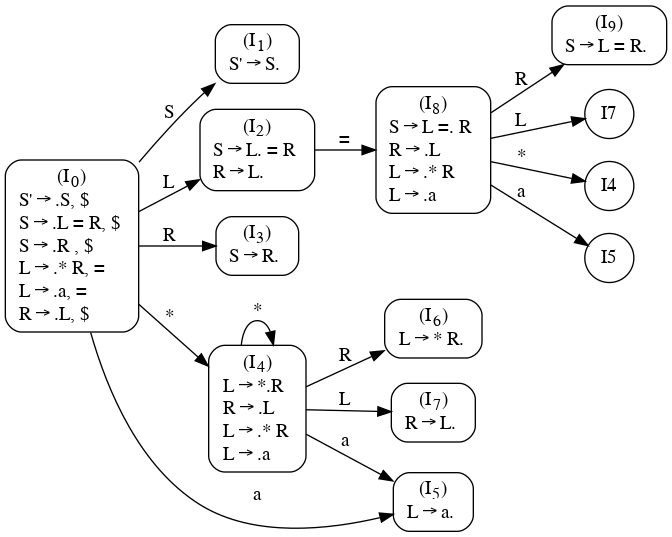
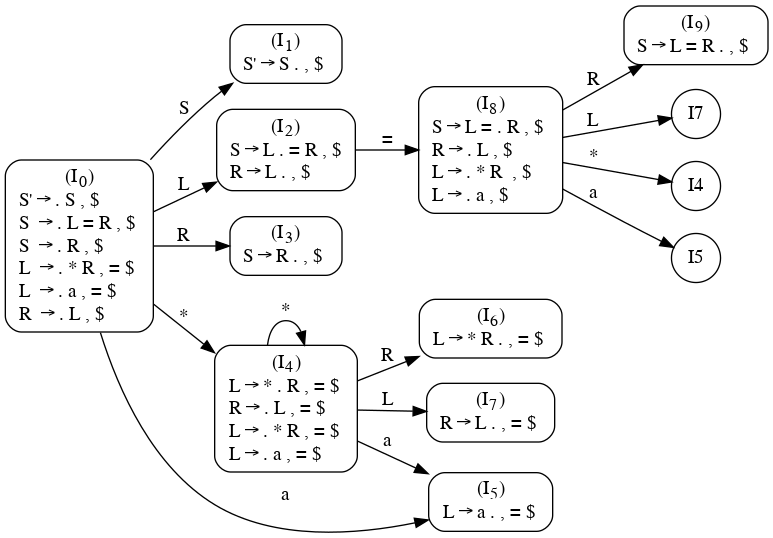
Change and Automatic update: Tue 29 Oct 2024 04:18:35 PM +0330

diff --git a/cm/lr/index.html b/cm/lr/index.html
@@ -4,10 +4,10 @@
         messageStyle: "none",
         TeX : { extensions : ['color.js'] }
       });
-    </script></head><body class="impress-not-supported"><div id="impress" data-width="1024" data-height="800" data-transition-duration="1000"><div class="step step-level-1" step="0" style="width: 1024px;" data-rotate-x="0" data-rotate-y="0" data-rotate-z="0" data-scale="1" data-x="0" data-y="0" data-z="0"><h1 id="lr">LR</h1><h2 id="syntax-analysis-lr">Syntax Analysis(LR)</h2><p>Ahmad Yoosofan</p><p>Compiler course</p><p>University of Kashan</p><p><a href="https://yoosofan.github.io/course/compiler.html">https://yoosofan.github.io/course/compiler.html</a></p></div><div class="step step-level-1" step="1" style="width: 1024px;" data-rotate-x="0" data-rotate-y="0" data-rotate-z="0" data-scale="1" data-x="1600" data-y="0" data-z="0"><h1 id="simple-add-i">Simple Add(I)</h1><ol><li class="substep">E &#8594; E + a</li><li class="substep">E &#8594; a</li></ol><img src="img/graph_235.png" class="substep"></div><div class="step step-level-1 t2c" step="2" style="width: 1024px;" data-rotate-x="0" data-rotate-y="0" data-rotate-z="0" data-scale="1" data-x="3200" data-y="0" data-z="0"><h1 id="simple-add-ii">Simple Add(II)</h1><ol><li>E &#8594; E + a</li><li>E &#8594; a</li></ol><img src="img/graph_236.png" class="substep"></div><div class="step step-level-1 t2c" step="3" style="width: 1024px;" data-rotate-x="0" data-rotate-y="0" data-rotate-z="0" data-scale="1" data-x="4800" data-y="0" data-z="0"><h1 id="simple-add-iii">Simple Add(III)</h1><ol><li>E &#8594; E + a</li><li>E &#8594; a</li></ol><img src="img/graph_237.png" class="substep"></div><div class="step step-level-1 t2c" step="4" style="width: 1024px;" data-rotate-x="0" data-rotate-y="0" data-rotate-z="0" data-scale="1" data-x="6400" data-y="0" data-z="0"><h1 id="simple-add-iv">Simple Add(IV)</h1><ol><li>E &#8594; E + a</li><li>E &#8594; a</li></ol><img src="img/graph_238.png"></div><div class="step step-level-1 t2c" step="5" style="width: 1024px;" data-rotate-x="0" data-rotate-y="0" data-rotate-z="0" data-scale="1" data-x="8000" data-y="0" data-z="0"><h1 id="simple-add-v">Simple Add(V)</h1><ol><li>E &#8594; E + a</li><li>E &#8594; a</li></ol><img src="img/graph_239.png"></div><div class="step step-level-1 t2c" step="6" style="width: 1024px;" data-rotate-x="0" data-rotate-y="0" data-rotate-z="0" data-scale="1" data-x="9600" data-y="0" data-z="0"><h1 id="simple-add-vi">Simple Add(VI)</h1><ol><li>E &#8594; E + a</li><li>E &#8594; a</li></ol><img src="img/graph_240.png"><ul><li class="substep">input: 3+5+1</li><li class="substep">a(3)+a(5)+a(1)</li><li class="substep">a+a+a</li></ul></div><div class="step step-level-1 t2c" step="7" style="width: 1024px;" data-rotate-x="0" data-rotate-y="0" data-rotate-z="0" data-scale="1" data-x="11200" data-y="0" data-z="0"><h1 id="simple-add-vii">Simple Add(VII)</h1><ol><li>S &#8594; E</li><li>E &#8594; E + a</li><li>E &#8594; a</li></ol><img src="img/graph_241.png"></div><div class="step step-level-1 t2c" step="8" style="width: 1024px;" data-rotate-x="0" data-rotate-y="0" data-rotate-z="0" data-scale="1" data-x="12800" data-y="0" data-z="0"><h1 id="simple-add-vii-1">Simple Add(VII)</h1><ol><li>S &#8594; E</li><li>E &#8594; E + a</li><li>E &#8594; a</li></ol><img src="img/graph_242.png"></div><div class="step step-level-1 t2c" step="9" style="width: 1024px;" data-rotate-x="0" data-rotate-y="0" data-rotate-z="0" data-scale="1" data-x="14400" data-y="0" data-z="0"><h1 id="simple-calculator-i">Simple Calculator(I)</h1><ol><li>E &#8594; E + T</li><li>E &#8594; E - T</li><li>E &#8594; T</li><li>T &#8594; T * F</li><li>T &#8594; T / F</li><li>T &#8594; F</li><li>F &#8594; (E)</li><li>F &#8594; a</li></ol><img src="img/graph_243.png" class="substep"></div><div class="step step-level-1 t2c" step="10" style="width: 1024px;" data-rotate-x="0" data-rotate-y="0" data-rotate-z="0" data-scale="1" data-x="16000" data-y="0" data-z="0"><h1 id="simple-calculator-ii">Simple Calculator(II)</h1><ol><li>E &#8594; E + T</li><li>E &#8594; E - T</li><li>E &#8594; T</li><li>T &#8594; T * F</li><li>T &#8594; T / F</li><li>T &#8594; F</li><li>F &#8594; (E)</li><li>F &#8594; a</li></ol><img src="img/graph_244.png" class="substep"></div><div class="step step-level-1 t2c" step="11" style="width: 1024px;" data-rotate-x="0" data-rotate-y="0" data-rotate-z="0" data-scale="1" data-x="17600" data-y="0" data-z="0"><h1 id="simple-calculator-xx">Simple Calculator(XX)</h1><ol><li>E &#8594; E + T</li><li>E &#8594; E - T</li><li>E &#8594; T</li><li>T &#8594; T * F</li><li>T &#8594; T / F</li><li>T &#8594; F</li><li>F &#8594; (E)</li><li>F &#8594; a</li></ol><img src="img/graph_245.png" class="substep"></div><div class="step step-level-1" step="12" style="width: 1024px;" data-rotate-x="0" data-rotate-y="0" data-rotate-z="0" data-scale="1" data-x="19200" data-y="0" data-z="0"><img src="img/slr_etf.png"></div><div class="step step-level-1 t2c" step="13" style="width: 1024px;" data-rotate-x="0" data-rotate-y="0" data-rotate-z="0" data-scale="1" data-x="20800" data-y="0" data-z="0"><h1 id="ambiguous-grammar">Ambiguous Grammar</h1><pre class="highlight code fortran"><span class="k">IF </span><span class="n">x</span><span class="w"> </span><span class="o">=</span><span class="w"> </span><span class="mi">2</span><span class="w"> </span><span class="k">THEN
+    </script></head><body class="impress-not-supported"><div id="impress" data-width="1024" data-height="800" data-transition-duration="1000"><div class="step step-level-1" step="0" style="width: 1024px;" data-rotate-x="0" data-rotate-y="0" data-rotate-z="0" data-scale="1" data-x="0" data-y="0" data-z="0"><h1 id="lr">LR</h1><h2 id="syntax-analysis-lr">Syntax Analysis(LR)</h2><p>Ahmad Yoosofan</p><p>Compiler course</p><p>University of Kashan</p><p><a href="https://yoosofan.github.io/course/compiler.html">https://yoosofan.github.io/course/compiler.html</a></p></div><div class="step step-level-1" step="1" style="width: 1024px;" data-rotate-x="0" data-rotate-y="0" data-rotate-z="0" data-scale="1" data-x="1600" data-y="0" data-z="0"><h1 id="simple-add-i">Simple Add(I)</h1><ol><li class="substep">E &#8594; E + a</li><li class="substep">E &#8594; a</li></ol><img src="img/graph_1.png" class="substep"></div><div class="step step-level-1 t2c" step="2" style="width: 1024px;" data-rotate-x="0" data-rotate-y="0" data-rotate-z="0" data-scale="1" data-x="3200" data-y="0" data-z="0"><h1 id="simple-add-ii">Simple Add(II)</h1><ol><li>E &#8594; E + a</li><li>E &#8594; a</li></ol><img src="img/graph_2.png" class="substep"></div><div class="step step-level-1 t2c" step="3" style="width: 1024px;" data-rotate-x="0" data-rotate-y="0" data-rotate-z="0" data-scale="1" data-x="4800" data-y="0" data-z="0"><h1 id="simple-add-iii">Simple Add(III)</h1><ol><li>E &#8594; E + a</li><li>E &#8594; a</li></ol><img src="img/graph_3.png" class="substep"></div><div class="step step-level-1 t2c" step="4" style="width: 1024px;" data-rotate-x="0" data-rotate-y="0" data-rotate-z="0" data-scale="1" data-x="6400" data-y="0" data-z="0"><h1 id="simple-add-iv">Simple Add(IV)</h1><ol><li>E &#8594; E + a</li><li>E &#8594; a</li></ol><img src="img/graph_4.png"></div><div class="step step-level-1 t2c" step="5" style="width: 1024px;" data-rotate-x="0" data-rotate-y="0" data-rotate-z="0" data-scale="1" data-x="8000" data-y="0" data-z="0"><h1 id="simple-add-v">Simple Add(V)</h1><ol><li>E &#8594; E + a</li><li>E &#8594; a</li></ol><img src="img/graph_5.png"></div><div class="step step-level-1 t2c" step="6" style="width: 1024px;" data-rotate-x="0" data-rotate-y="0" data-rotate-z="0" data-scale="1" data-x="9600" data-y="0" data-z="0"><h1 id="simple-add-vi">Simple Add(VI)</h1><ol><li>E &#8594; E + a</li><li>E &#8594; a</li></ol><img src="img/graph_6.png"><ul><li class="substep">input: 3+5+1</li><li class="substep">a(3)+a(5)+a(1)</li><li class="substep">a+a+a</li></ul></div><div class="step step-level-1 t2c" step="7" style="width: 1024px;" data-rotate-x="0" data-rotate-y="0" data-rotate-z="0" data-scale="1" data-x="11200" data-y="0" data-z="0"><h1 id="simple-add-vii">Simple Add(VII)</h1><ol><li>S &#8594; E</li><li>E &#8594; E + a</li><li>E &#8594; a</li></ol><img src="img/graph_7.png"></div><div class="step step-level-1 t2c" step="8" style="width: 1024px;" data-rotate-x="0" data-rotate-y="0" data-rotate-z="0" data-scale="1" data-x="12800" data-y="0" data-z="0"><h1 id="simple-add-vii-1">Simple Add(VII)</h1><ol><li>S &#8594; E</li><li>E &#8594; E + a</li><li>E &#8594; a</li></ol><img src="img/graph_8.png"></div><div class="step step-level-1 t2c" step="9" style="width: 1024px;" data-rotate-x="0" data-rotate-y="0" data-rotate-z="0" data-scale="1" data-x="14400" data-y="0" data-z="0"><h1 id="simple-calculator-i">Simple Calculator(I)</h1><ol><li>E &#8594; E + T</li><li>E &#8594; E - T</li><li>E &#8594; T</li><li>T &#8594; T * F</li><li>T &#8594; T / F</li><li>T &#8594; F</li><li>F &#8594; (E)</li><li>F &#8594; a</li></ol><img src="img/graph_9.png" class="substep"></div><div class="step step-level-1 t2c" step="10" style="width: 1024px;" data-rotate-x="0" data-rotate-y="0" data-rotate-z="0" data-scale="1" data-x="16000" data-y="0" data-z="0"><h1 id="simple-calculator-ii">Simple Calculator(II)</h1><ol><li>E &#8594; E + T</li><li>E &#8594; E - T</li><li>E &#8594; T</li><li>T &#8594; T * F</li><li>T &#8594; T / F</li><li>T &#8594; F</li><li>F &#8594; (E)</li><li>F &#8594; a</li></ol><img src="img/graph_10.png" class="substep"></div><div class="step step-level-1 t2c" step="11" style="width: 1024px;" data-rotate-x="0" data-rotate-y="0" data-rotate-z="0" data-scale="1" data-x="17600" data-y="0" data-z="0"><h1 id="simple-calculator-xx">Simple Calculator(XX)</h1><ol><li>E &#8594; E + T</li><li>E &#8594; E - T</li><li>E &#8594; T</li><li>T &#8594; T * F</li><li>T &#8594; T / F</li><li>T &#8594; F</li><li>F &#8594; (E)</li><li>F &#8594; a</li></ol><img src="img/graph_11.png" class="substep"></div><div class="step step-level-1" step="12" style="width: 1024px;" data-rotate-x="0" data-rotate-y="0" data-rotate-z="0" data-scale="1" data-x="19200" data-y="0" data-z="0"><img src="img/slr_etf.png"></div><div class="step step-level-1 t2c" step="13" style="width: 1024px;" data-rotate-x="0" data-rotate-y="0" data-rotate-z="0" data-scale="1" data-x="20800" data-y="0" data-z="0"><h1 id="ambiguous-grammar">Ambiguous Grammar</h1><pre class="highlight code fortran"><span class="k">IF </span><span class="n">x</span><span class="w"> </span><span class="o">=</span><span class="w"> </span><span class="mi">2</span><span class="w"> </span><span class="k">THEN
     </span><span class="n">x</span><span class="w"> </span><span class="o">=</span><span class="w"> </span><span class="mi">3</span><span class="w">
 </span><span class="k">ELSE
-    </span><span class="n">x</span><span class="w"> </span><span class="o">=</span><span class="w"> </span><span class="mi">4</span></pre><ol><li class="substep">S &#8594; i S</li><li class="substep">S &#8594; i S e S</li><li class="substep">S &#8594; o</li></ol></div><div class="step step-level-1" step="14" style="width: 1024px;" data-rotate-x="0" data-rotate-y="0" data-rotate-z="0" data-scale="1" data-x="22400" data-y="0" data-z="0"><ol><li>S &#8594; i S M</li><li>M &#8594; e S</li><li>M &#8594; &#955;</li><li>S &#8594; o</li></ol></div><div class="step step-level-1 t2c" step="15" style="width: 1024px;" data-rotate-x="0" data-rotate-y="0" data-rotate-z="0" data-scale="1" data-x="24000" data-y="0" data-z="0"><h1 id="an-especial-grammar">An Especial Grammar</h1><ol><li>S &#8594; L = R</li><li>S &#8594; R</li><li>L &#8594; * R</li><li>L &#8594; a</li><li>R &#8594; L</li></ol><div class="substep"><p>Augmented Grammer</p><ul><li>S' &#8594; S</li></ul><ol><li>S &#8594; L = R</li><li>S &#8594; R</li><li>L &#8594; * R</li><li>L &#8594; a</li><li>R &#8594; L</li></ol></div></div><div class="step step-level-1" step="16" style="width: 1024px;" data-rotate-x="0" data-rotate-y="0" data-rotate-z="0" data-scale="1" data-x="25600" data-y="0" data-z="0"><img src="img/graph_246.png"></div><div class="step step-level-1 t2c" step="17" style="width: 1024px;" data-rotate-x="0" data-rotate-y="0" data-rotate-z="0" data-scale="1" data-x="27200" data-y="0" data-z="0"><ul><li>first(S)  = {a, *}<p>Inline emphasis start-string without end-string.</p></li><li>first(L)  = {a, *}<p>Inline emphasis start-string without end-string.</p></li><li>first(R)  = {a, *}<p>Inline emphasis start-string without end-string.</p></li><li>follow(S) = {$, =}</li><li>follow(L) = {$, =}</li><li>follow(R) = {$, =}</li></ul><table cellpadding="0" cellspacing="0" class="smallerelementwithfullborder equal-col"><thead><tr><th><p>t</p></th><th><p>a</p></th><th><ul><li></ul></th><th><p>=</p></th><th><p>$</p></th><th><p>S</p></th><th><p>L</p></th><th><p>R</p></th></tr></thead><tbody><tr><td><p>I0</p></td><td><p>s5</p></td><td><p>s4</p></td><td></td><td></td><td><p>1</p></td><td><p>2</p></td><td><p>3</p></td></tr><tr><td><p>I1</p></td><td></td><td></td><td></td><td><p>acc</p></td><td></td><td></td><td></td></tr><tr><td><p>I2</p></td><td></td><td></td><td><p>s8/</p></td><td></td><td></td><td></td><td></td></tr><tr><td><p>I3</p></td><td></td><td></td><td></td><td></td><td></td><td></td><td></td></tr><tr><td><p>I4</p></td><td></td><td></td><td></td><td></td><td></td><td></td><td></td></tr><tr><td><p>I5</p></td><td></td><td></td><td></td><td></td><td></td><td></td><td></td></tr><tr><td><p>I6</p></td><td></td><td></td><td></td><td></td><td></td><td></td><td></td></tr><tr><td><p>I7</p></td><td></td><td></td><td></td><td></td><td></td><td></td><td></td></tr><tr><td><p>I8</p></td><td></td><td></td><td></td><td></td><td></td><td></td><td></td></tr></tbody></table></div><div class="step step-level-1" step="18" style="width: 1024px;" data-rotate-x="0" data-rotate-y="0" data-rotate-z="0" data-scale="1" data-x="28800" data-y="0" data-z="0"><img src="img/graph_247.png"></div><div class="step step-level-1" step="19" style="width: 1024px;" data-rotate-x="0" data-rotate-y="0" data-rotate-z="0" data-scale="1" data-x="30400" data-y="0" data-z="0"><h1 id="look-ahead">Look ahead</h1><img src="img/graph_248.png"></div><div class="step step-level-1" step="20" data-transition-duration="1" style="width: 1024px;" data-rotate-x="0" data-rotate-y="0" data-rotate-z="0" data-scale="1" data-x="32000" data-y="0" data-z="0"><img src="img/graph_249.png"></div><div class="step step-level-1" step="21" data-transition-duration="1" style="width: 1024px;" data-rotate-x="0" data-rotate-y="0" data-rotate-z="0" data-scale="1" data-x="33600" data-y="0" data-z="0"><img src="img/graph_250.png"></div><div class="step step-level-1" step="22" data-transition-duration="1" style="width: 1024px;" data-rotate-x="0" data-rotate-y="0" data-rotate-z="0" data-scale="1" data-x="35200" data-y="0" data-z="0"><img src="img/graph_251.png"></div><div class="step step-level-1" step="23" data-transition-duration="1" style="width: 1024px;" data-rotate-x="0" data-rotate-y="0" data-rotate-z="0" data-scale="1" data-x="36800" data-y="0" data-z="0"><img src="img/graph_252.png"></div><div class="step step-level-1" step="24" data-transition-duration="1" style="width: 1024px;" data-rotate-x="0" data-rotate-y="0" data-rotate-z="0" data-scale="1" data-x="38400" data-y="0" data-z="0"><img src="img/graph_253.png"></div><div class="step step-level-1" step="25" data-transition-duration="1" style="width: 1024px;" data-rotate-x="0" data-rotate-y="0" data-rotate-z="0" data-scale="1" data-x="40000" data-y="0" data-z="0"><img src="img/graph_254.png"></div><div class="step step-level-1" step="26" data-transition-duration="1" style="width: 1024px;" data-rotate-x="0" data-rotate-y="0" data-rotate-z="0" data-scale="1" data-x="41600" data-y="0" data-z="0"><img src="img/graph_255.png"></div><div class="step step-level-1" step="27" data-transition-duration="1" style="width: 1024px;" data-rotate-x="0" data-rotate-y="0" data-rotate-z="0" data-scale="1" data-x="43200" data-y="0" data-z="0"><img src="img/graph_256.png"></div><div class="step step-level-1" step="28" data-transition-duration="1000" style="width: 1024px;" data-rotate-x="0" data-rotate-y="0" data-rotate-z="0" data-scale="1" data-x="44800" data-y="0" data-z="0"><h1 id="lalr">LALR</h1><table cellpadding="0" cellspacing="0" class="smallerelementwithfullborder equal-col"><thead><tr><th><p>t</p></th><th><p>a</p></th><th><ul><li></ul></th><th><p>=</p></th><th><p>$</p></th><th><p>S</p></th><th><p>L</p></th><th><p>R</p></th></tr></thead><tbody><tr><td><p>I0</p></td><td><p>s5</p></td><td><p>s4</p></td><td></td><td></td><td><p>1</p></td><td><p>2</p></td><td><p>3</p></td></tr><tr><td><p>I1</p></td><td></td><td></td><td></td><td><p>acc</p></td><td></td><td></td><td></td></tr><tr><td><p>I2</p></td><td></td><td></td><td><p>s8/</p></td><td></td><td></td><td></td><td></td></tr><tr><td><p>I3</p></td><td></td><td></td><td></td><td></td><td></td><td></td><td></td></tr><tr><td><p>I4</p></td><td></td><td></td><td></td><td></td><td></td><td></td><td></td></tr><tr><td><p>I5</p></td><td></td><td></td><td></td><td></td><td></td><td></td><td></td></tr><tr><td><p>I6</p></td><td></td><td></td><td></td><td></td><td></td><td></td><td></td></tr><tr><td><p>I7</p></td><td></td><td></td><td></td><td></td><td></td><td></td><td></td></tr><tr><td><p>I8</p></td><td></td><td></td><td></td><td></td><td></td><td></td><td></td></tr></tbody></table></div><div class="step step-level-1" step="29" style="width: 1024px;" data-rotate-x="0" data-rotate-y="0" data-rotate-z="0" data-scale="1" data-x="46400" data-y="0" data-z="0"><p>END</p></div></div><div id="slide-number" class="slide-number">
+    </span><span class="n">x</span><span class="w"> </span><span class="o">=</span><span class="w"> </span><span class="mi">4</span></pre><ol><li class="substep">S &#8594; i S</li><li class="substep">S &#8594; i S e S</li><li class="substep">S &#8594; o</li></ol></div><div class="step step-level-1" step="14" style="width: 1024px;" data-rotate-x="0" data-rotate-y="0" data-rotate-z="0" data-scale="1" data-x="22400" data-y="0" data-z="0"><ol><li>S &#8594; i S M</li><li>M &#8594; e S</li><li>M &#8594; &#955;</li><li>S &#8594; o</li></ol></div><div class="step step-level-1 t2c" step="15" style="width: 1024px;" data-rotate-x="0" data-rotate-y="0" data-rotate-z="0" data-scale="1" data-x="24000" data-y="0" data-z="0"><h1 id="an-especial-grammar">An Especial Grammar</h1><ol><li>S &#8594; L = R</li><li>S &#8594; R</li><li>L &#8594; * R</li><li>L &#8594; a</li><li>R &#8594; L</li></ol><div class="substep"><p>Augmented Grammer</p><ul><li>S' &#8594; S</li></ul><ol><li>S &#8594; L = R</li><li>S &#8594; R</li><li>L &#8594; * R</li><li>L &#8594; a</li><li>R &#8594; L</li></ol></div></div><div class="step step-level-1" step="16" style="width: 1024px;" data-rotate-x="0" data-rotate-y="0" data-rotate-z="0" data-scale="1" data-x="25600" data-y="0" data-z="0"><img src="img/graph_12.png"></div><div class="step step-level-1 t2c" step="17" style="width: 1024px;" data-rotate-x="0" data-rotate-y="0" data-rotate-z="0" data-scale="1" data-x="27200" data-y="0" data-z="0"><ul><li>first(S)  = {a, *}<p>Inline emphasis start-string without end-string.</p></li><li>first(L)  = {a, *}<p>Inline emphasis start-string without end-string.</p></li><li>first(R)  = {a, *}<p>Inline emphasis start-string without end-string.</p></li><li>follow(S) = {$, =}</li><li>follow(L) = {$, =}</li><li>follow(R) = {$, =}</li></ul><table cellpadding="0" cellspacing="0" class="smallerelementwithfullborder equal-col"><thead><tr><th><p>t</p></th><th><p>a</p></th><th><ul><li></ul></th><th><p>=</p></th><th><p>$</p></th><th><p>S</p></th><th><p>L</p></th><th><p>R</p></th></tr></thead><tbody><tr><td><p>I0</p></td><td><p>s5</p></td><td><p>s4</p></td><td></td><td></td><td><p>1</p></td><td><p>2</p></td><td><p>3</p></td></tr><tr><td><p>I1</p></td><td></td><td></td><td></td><td><p>acc</p></td><td></td><td></td><td></td></tr><tr><td><p>I2</p></td><td></td><td></td><td><p>s8/</p></td><td></td><td></td><td></td><td></td></tr><tr><td><p>I3</p></td><td></td><td></td><td></td><td></td><td></td><td></td><td></td></tr><tr><td><p>I4</p></td><td></td><td></td><td></td><td></td><td></td><td></td><td></td></tr><tr><td><p>I5</p></td><td></td><td></td><td></td><td></td><td></td><td></td><td></td></tr><tr><td><p>I6</p></td><td></td><td></td><td></td><td></td><td></td><td></td><td></td></tr><tr><td><p>I7</p></td><td></td><td></td><td></td><td></td><td></td><td></td><td></td></tr><tr><td><p>I8</p></td><td></td><td></td><td></td><td></td><td></td><td></td><td></td></tr></tbody></table></div><div class="step step-level-1" step="18" style="width: 1024px;" data-rotate-x="0" data-rotate-y="0" data-rotate-z="0" data-scale="1" data-x="28800" data-y="0" data-z="0"><img src="img/graph_13.png"></div><div class="step step-level-1" step="19" style="width: 1024px;" data-rotate-x="0" data-rotate-y="0" data-rotate-z="0" data-scale="1" data-x="30400" data-y="0" data-z="0"><h1 id="look-ahead">Look ahead</h1><img src="img/graph_14.png"></div><div class="step step-level-1" step="20" data-transition-duration="1" style="width: 1024px;" data-rotate-x="0" data-rotate-y="0" data-rotate-z="0" data-scale="1" data-x="32000" data-y="0" data-z="0"><img src="img/graph_15.png"></div><div class="step step-level-1" step="21" data-transition-duration="1" style="width: 1024px;" data-rotate-x="0" data-rotate-y="0" data-rotate-z="0" data-scale="1" data-x="33600" data-y="0" data-z="0"><img src="img/graph_16.png"></div><div class="step step-level-1" step="22" data-transition-duration="1" style="width: 1024px;" data-rotate-x="0" data-rotate-y="0" data-rotate-z="0" data-scale="1" data-x="35200" data-y="0" data-z="0"><img src="img/graph_17.png"></div><div class="step step-level-1" step="23" data-transition-duration="1" style="width: 1024px;" data-rotate-x="0" data-rotate-y="0" data-rotate-z="0" data-scale="1" data-x="36800" data-y="0" data-z="0"><img src="img/graph_18.png"></div><div class="step step-level-1" step="24" data-transition-duration="1" style="width: 1024px;" data-rotate-x="0" data-rotate-y="0" data-rotate-z="0" data-scale="1" data-x="38400" data-y="0" data-z="0"><img src="img/graph_19.png"></div><div class="step step-level-1" step="25" data-transition-duration="1" style="width: 1024px;" data-rotate-x="0" data-rotate-y="0" data-rotate-z="0" data-scale="1" data-x="40000" data-y="0" data-z="0"><img src="img/graph_20.png"></div><div class="step step-level-1" step="26" data-transition-duration="1" style="width: 1024px;" data-rotate-x="0" data-rotate-y="0" data-rotate-z="0" data-scale="1" data-x="41600" data-y="0" data-z="0"><img src="img/graph_21.png"></div><div class="step step-level-1" step="27" data-transition-duration="1" style="width: 1024px;" data-rotate-x="0" data-rotate-y="0" data-rotate-z="0" data-scale="1" data-x="43200" data-y="0" data-z="0"><img src="img/graph_22.png"></div><div class="step step-level-1" step="28" data-transition-duration="1000" style="width: 1024px;" data-rotate-x="0" data-rotate-y="0" data-rotate-z="0" data-scale="1" data-x="44800" data-y="0" data-z="0"><h1 id="lalr">LALR</h1><table cellpadding="0" cellspacing="0" class="smallerelementwithfullborder equal-col"><thead><tr><th><p>t</p></th><th><p>a</p></th><th><ul><li></ul></th><th><p>=</p></th><th><p>$</p></th><th><p>S</p></th><th><p>L</p></th><th><p>R</p></th></tr></thead><tbody><tr><td><p>I0</p></td><td><p>s5</p></td><td><p>s4</p></td><td></td><td></td><td><p>1</p></td><td><p>2</p></td><td><p>3</p></td></tr><tr><td><p>I1</p></td><td></td><td></td><td></td><td><p>acc</p></td><td></td><td></td><td></td></tr><tr><td><p>I2</p></td><td></td><td></td><td><p>s8/</p></td><td></td><td></td><td></td><td></td></tr><tr><td><p>I3</p></td><td></td><td></td><td></td><td></td><td></td><td></td><td></td></tr><tr><td><p>I4</p></td><td></td><td></td><td></td><td></td><td></td><td></td><td></td></tr><tr><td><p>I5</p></td><td></td><td></td><td></td><td></td><td></td><td></td><td></td></tr><tr><td><p>I6</p></td><td></td><td></td><td></td><td></td><td></td><td></td><td></td></tr><tr><td><p>I7</p></td><td></td><td></td><td></td><td></td><td></td><td></td><td></td></tr><tr><td><p>I8</p></td><td></td><td></td><td></td><td></td><td></td><td></td><td></td></tr></tbody></table></div><div class="step step-level-1" step="29" style="width: 1024px;" data-rotate-x="0" data-rotate-y="0" data-rotate-z="0" data-scale="1" data-x="46400" data-y="0" data-z="0"><p>END</p></div></div><div id="slide-number" class="slide-number">
          1
       </div><script type="text/javascript" src="js/impress.js"></script><script type="text/javascript" src="js/gotoSlide.js"></script><script type="text/javascript" src="js/hovercraft.js"></script><script type="text/javascript">
       document.getElementById("impress").addEventListener("impress:stepenter", update_slide_number, false);

diff --git a/db/sq/index.html b/db/sq/index.html
@@ -508,7 +508,7 @@
         </span><span class="k">where</span><span class="w">  </span><span class="n">sp</span><span class="p">.</span><span class="n">pn</span><span class="w"> </span><span class="o">=</span><span class="w"> </span><span class="n">p</span><span class="p">.</span><span class="n">pn</span><span class="w"> </span><span class="k">and</span><span class="w">
           </span><span class="n">sp</span><span class="p">.</span><span class="n">sn</span><span class="w"> </span><span class="o">=</span><span class="w"> </span><span class="n">s</span><span class="p">.</span><span class="n">sn</span><span class="w">
       </span><span class="p">)</span><span class="w">
-  </span><span class="p">);</span></pre></div><div class="step step-level-1 t2c" step="58" style="width: 1024px;" data-rotate-x="0" data-rotate-y="0" data-rotate-z="0" data-scale="1" data-x="92800" data-y="0" data-z="0"><p class="rtl-h1">&#1606;&#1575;&#1605; &#1602;&#1591;&#1593;&#1607;&#8204;&#1607;&#1575;&#1740; &#1593;&#1585;&#1590;&#1607; &#1588;&#1583;&#1607;&#1620; &#1605;&#1578;&#1601;&#1575;&#1608;&#1578;&#1740; &#1585;&#1575; &#1576;&#1740;&#1575;&#1576;&#1740;&#1583; &#1705;&#1607; &#1601;&#1602;&#1591; &#1593;&#1585;&#1590;&#1607; &#1705;&#1606;&#1606;&#1583;&#1711;&#1575;&#1606; &#1583;&#1585;&#1608;&#1606; &#1570;&#1606; &#1588;&#1607;&#1585;&#1607;&#1575; &#1570;&#1606;&#1607;&#1575; &#1585;&#1575; &#1593;&#1585;&#1590;&#1607; &#1705;&#1585;&#1583;&#1607; &#1576;&#1575;&#1588;&#1606;&#1583;</p><pre class="highlight code sql substep"><span class="k">select</span><span class="w"> </span><span class="k">distinct</span><span class="w"> </span><span class="n">pname</span><span class="w">
+  </span><span class="p">);</span></pre></div><div class="step step-level-1 t2c" step="58" style="width: 1024px;" data-rotate-x="0" data-rotate-y="0" data-rotate-z="0" data-scale="1" data-x="92800" data-y="0" data-z="0"><p class="rtl-h1">&#1606;&#1575;&#1605; &#1602;&#1591;&#1593;&#1607;&#8204;&#1607;&#1575;&#1740; &#1593;&#1585;&#1590;&#1607; &#1588;&#1583;&#1607;&#1620; &#1605;&#1578;&#1601;&#1575;&#1608;&#1578;&#1740; &#1585;&#1575; &#1576;&#1740;&#1575;&#1576;&#1740;&#1583; &#1705;&#1607; &#1601;&#1602;&#1591; &#1593;&#1585;&#1590;&#1607; &#1705;&#1606;&#1606;&#1583;&#1711;&#1575;&#1606; &#1583;&#1585;&#1608;&#1606; &#1570;&#1606; &#1588;&#1607;&#1585;&#1607;&#1575;&#1548; &#1570;&#1606;&#1607;&#1575; &#1585;&#1575; &#1593;&#1585;&#1590;&#1607; &#1705;&#1585;&#1583;&#1607; &#1576;&#1575;&#1588;&#1606;&#1583;</p><pre class="highlight code sql substep"><span class="k">select</span><span class="w"> </span><span class="k">distinct</span><span class="w"> </span><span class="n">pname</span><span class="w">
 </span><span class="k">from</span><span class="w"> </span><span class="n">p</span><span class="w"> </span><span class="k">natural</span><span class="w"> </span><span class="k">join</span><span class="w"> </span><span class="n">sp</span><span class="w">
 </span><span class="k">where</span><span class="w"> </span><span class="k">not</span><span class="w"> </span><span class="k">exists</span><span class="p">(</span><span class="w">
     </span><span class="k">select</span><span class="w"> </span><span class="o">*</span><span class="w">
@@ -517,20 +517,17 @@
       </span><span class="n">sp</span><span class="p">.</span><span class="n">pn</span><span class="w"> </span><span class="o">=</span><span class="w"> </span><span class="n">p</span><span class="p">.</span><span class="n">pn</span><span class="w"> </span><span class="k">and</span><span class="w">
       </span><span class="n">p</span><span class="p">.</span><span class="n">city</span><span class="w"> </span><span class="o">&lt;&gt;</span><span class="w"> </span><span class="n">s</span><span class="p">.</span><span class="n">city</span><span class="w">
   </span><span class="p">)</span><span class="w">
-</span><span class="p">;</span></pre><pre class="highlight code sql substep"><span class="k">select</span><span class="w"> </span><span class="k">distinct</span><span class="w"> </span><span class="n">pname</span><span class="w">
-</span><span class="k">from</span><span class="w"> </span><span class="n">p</span><span class="w">
-</span><span class="k">where</span><span class="w"> </span><span class="k">exists</span><span class="p">(</span><span class="w">
+</span><span class="p">;</span></pre><pre class="highlight code sql substep"><span class="w">  </span><span class="k">select</span><span class="w"> </span><span class="n">pname</span><span class="w"> </span><span class="c1">-- &#1585;&#1740;&#1581;&#1575;&#1606;&#1607; &#1586;&#1605;&#1575;&#1606;&#1740;&#1575;&#1606;
+</span><span class="w">  </span><span class="k">from</span><span class="w"> </span><span class="n">p</span><span class="w"> </span><span class="k">natural</span><span class="w"> </span><span class="k">join</span><span class="w"> </span><span class="n">sp</span><span class="w">
+</span><span class="k">except</span><span class="w">
+  </span><span class="k">select</span><span class="w"> </span><span class="n">pname</span><span class="w">
+  </span><span class="k">from</span><span class="w"> </span><span class="n">p</span><span class="w">
+  </span><span class="k">where</span><span class="w"> </span><span class="n">exist</span><span class="p">(</span><span class="w">
     </span><span class="k">select</span><span class="w"> </span><span class="o">*</span><span class="w">
-    </span><span class="k">from</span><span class="w"> </span><span class="n">sp</span><span class="w"> </span><span class="k">natural</span><span class="w"> </span><span class="k">join</span><span class="w"> </span><span class="n">s</span><span class="w">
-    </span><span class="k">where</span><span class="w"> </span><span class="n">sp</span><span class="p">.</span><span class="n">pn</span><span class="w"> </span><span class="o">=</span><span class="w"> </span><span class="n">p</span><span class="p">.</span><span class="n">pn</span><span class="w"> </span><span class="k">and</span><span class="w">
-      </span><span class="n">p</span><span class="p">.</span><span class="n">city</span><span class="w"> </span><span class="o">=</span><span class="w"> </span><span class="n">s</span><span class="p">.</span><span class="n">city</span><span class="w">
-  </span><span class="p">)</span><span class="w"> </span><span class="k">and</span><span class="w"> </span><span class="k">not</span><span class="w"> </span><span class="k">exists</span><span class="p">(</span><span class="w">
-    </span><span class="k">select</span><span class="w"> </span><span class="o">*</span><span class="w">
-    </span><span class="k">from</span><span class="w"> </span><span class="n">sp</span><span class="w"> </span><span class="k">natural</span><span class="w"> </span><span class="k">join</span><span class="w"> </span><span class="n">s</span><span class="w">
-    </span><span class="k">where</span><span class="w"> </span><span class="n">sp</span><span class="p">.</span><span class="n">pn</span><span class="w"> </span><span class="o">=</span><span class="w"> </span><span class="n">p</span><span class="p">.</span><span class="n">pn</span><span class="w"> </span><span class="k">and</span><span class="w">
-      </span><span class="n">p</span><span class="p">.</span><span class="n">city</span><span class="w"> </span><span class="o">&lt;&gt;</span><span class="w"> </span><span class="n">s</span><span class="p">.</span><span class="n">city</span><span class="w">
-  </span><span class="p">)</span><span class="w">
-</span><span class="p">;</span></pre><table cellpadding="0" cellspacing="0" class="smallerelementwithfullborder"><thead><tr><th><p>pname</p></th></tr></thead><tbody><tr><td><p>Screw</p></td></tr><tr><td><p>Cog</p></td></tr></tbody></table></div><div class="step step-level-1 t2c" step="59" style="width: 1024px;" data-rotate-x="0" data-rotate-y="0" data-rotate-z="0" data-scale="1" data-x="94400" data-y="0" data-z="0"><p class="rtl-h1">&#1606;&#1575;&#1605; &#1602;&#1591;&#1593;&#1575;&#1578;&#1740; &#1585;&#1575; &#1576;&#1740;&#1575;&#1576;&#1740;&#1583; &#1705;&#1607; &#1607;&#1605;&#1607;&#1620; &#1593;&#1585;&#1590;&#1607; &#1705;&#1606;&#1606;&#1583;&#1711;&#1575;&#1606; &#1570;&#1606;&#1607;&#1575; &#1585;&#1575; &#1593;&#1585;&#1590;&#1607; &#1705;&#1585;&#1583;&#1607; &#1576;&#1575;&#1588;&#1606;&#1583;</p><p class="substep rtl-h1">&#1606;&#1575;&#1605; &#1602;&#1591;&#1593;&#1575;&#1578;&#1740; &#1585;&#1575; &#1576;&#1740;&#1575;&#1576;&#1740;&#1583; &#1705;&#1607; &#1593;&#1585;&#1590;&#1607;&#8204;&#1705;&#1606;&#1606;&#1583;&#1607;&#8204;&#1575;&#1740; &#1608;&#1580;&#1608;&#1583; &#1606;&#1583;&#1575;&#1588;&#1578;&#1607; &#1576;&#1575;&#1588;&#1583; &#1705;&#1607; &#1575;&#1740;&#1606; &#1602;&#1591;&#1593;&#1575;&#1578; &#1585;&#1575; &#1593;&#1585;&#1590;&#1607; &#1606;&#1705;&#1585;&#1583;&#1607; &#1576;&#1575;&#1588;&#1583;.</p><p class="substep rtl-h1">&#1606;&#1575;&#1605; &#1602;&#1591;&#1593;&#1575;&#1578;&#1740; &#1585;&#1575; &#1605;&#1740;&#8204;&#1582;&#1608;&#1575;&#1607;&#1740;&#1605; &#1705;&#1607; &#1608;&#1580;&#1608;&#1583; &#1606;&#1583;&#1575;&#1588;&#1578;&#1607; &#1576;&#1575;&#1588;&#1583; &#1593;&#1585;&#1590;&#1607;&#8204;&#1705;&#1606;&#1606;&#1583;&#1607;&#8204;&#1575;&#1740; &#1705;&#1607; &#1576;&#1585;&#1575;&#1740;&#1588; &#1608;&#1580;&#1608;&#1583; &#1606;&#1583;&#1575;&#1588;&#1578;&#1607; &#1576;&#1575;&#1588;&#1583; &#1593;&#1585;&#1590;&#1607;&#8204;&#1575;&#1740; &#1705;&#1607; &#1570;&#1606; &#1593;&#1585;&#1590;&#1607; &#1575;&#1586; &#1570;&#1606; &#1593;&#1585;&#1590;&#1607; &#1705;&#1606;&#1606;&#1583;&#1607; &#1608; &#1570;&#1606; &#1602;&#1591;&#1593;&#1607; &#1576;&#1575;&#1588;&#1583;.</p><pre class="highlight code sql substep"><span class="k">select</span><span class="w"> </span><span class="n">pname</span><span class="w">
+    </span><span class="k">from</span><span class="w"> </span><span class="n">s</span><span class="w"> </span><span class="k">natural</span><span class="w"> </span><span class="k">join</span><span class="w"> </span><span class="n">sp</span><span class="w">
+    </span><span class="k">where</span><span class="w"> </span><span class="n">sp</span><span class="p">.</span><span class="n">pn</span><span class="o">=</span><span class="n">p</span><span class="p">.</span><span class="n">pn</span><span class="w"> </span><span class="k">and</span><span class="w">
+        </span><span class="n">p</span><span class="p">.</span><span class="n">city</span><span class="w"> </span><span class="o">&lt;&gt;</span><span class="w"> </span><span class="n">s</span><span class="p">.</span><span class="n">city</span><span class="w">
+  </span><span class="p">)</span><span class="w"> </span><span class="p">;</span></pre><table cellpadding="0" cellspacing="0" class="smallerelementwithfullborder"><thead><tr><th><p>pname</p></th></tr></thead><tbody><tr><td><p>Screw</p></td></tr><tr><td><p>Cog</p></td></tr></tbody></table></div><div class="step step-level-1 t2c" step="59" style="width: 1024px;" data-rotate-x="0" data-rotate-y="0" data-rotate-z="0" data-scale="1" data-x="94400" data-y="0" data-z="0"><p class="rtl-h1">&#1606;&#1575;&#1605; &#1602;&#1591;&#1593;&#1575;&#1578;&#1740; &#1585;&#1575; &#1576;&#1740;&#1575;&#1576;&#1740;&#1583; &#1705;&#1607; &#1607;&#1605;&#1607;&#1620; &#1593;&#1585;&#1590;&#1607; &#1705;&#1606;&#1606;&#1583;&#1711;&#1575;&#1606; &#1570;&#1606;&#1607;&#1575; &#1585;&#1575; &#1593;&#1585;&#1590;&#1607; &#1705;&#1585;&#1583;&#1607; &#1576;&#1575;&#1588;&#1606;&#1583;</p><p class="substep rtl-h1">&#1606;&#1575;&#1605; &#1602;&#1591;&#1593;&#1575;&#1578;&#1740; &#1585;&#1575; &#1576;&#1740;&#1575;&#1576;&#1740;&#1583; &#1705;&#1607; &#1593;&#1585;&#1590;&#1607;&#8204;&#1705;&#1606;&#1606;&#1583;&#1607;&#8204;&#1575;&#1740; &#1608;&#1580;&#1608;&#1583; &#1606;&#1583;&#1575;&#1588;&#1578;&#1607; &#1576;&#1575;&#1588;&#1583; &#1705;&#1607; &#1575;&#1740;&#1606; &#1602;&#1591;&#1593;&#1575;&#1578; &#1585;&#1575; &#1593;&#1585;&#1590;&#1607; &#1606;&#1705;&#1585;&#1583;&#1607; &#1576;&#1575;&#1588;&#1583;.</p><p class="substep rtl-h1">&#1606;&#1575;&#1605; &#1602;&#1591;&#1593;&#1575;&#1578;&#1740; &#1585;&#1575; &#1605;&#1740;&#8204;&#1582;&#1608;&#1575;&#1607;&#1740;&#1605; &#1705;&#1607; &#1608;&#1580;&#1608;&#1583; &#1606;&#1583;&#1575;&#1588;&#1578;&#1607; &#1576;&#1575;&#1588;&#1583; &#1593;&#1585;&#1590;&#1607;&#8204;&#1705;&#1606;&#1606;&#1583;&#1607;&#8204;&#1575;&#1740; &#1705;&#1607; &#1576;&#1585;&#1575;&#1740;&#1588; &#1608;&#1580;&#1608;&#1583; &#1606;&#1583;&#1575;&#1588;&#1578;&#1607; &#1576;&#1575;&#1588;&#1583; &#1593;&#1585;&#1590;&#1607;&#8204;&#1575;&#1740; &#1705;&#1607; &#1570;&#1606; &#1593;&#1585;&#1590;&#1607; &#1575;&#1586; &#1570;&#1606; &#1593;&#1585;&#1590;&#1607; &#1705;&#1606;&#1606;&#1583;&#1607; &#1608; &#1570;&#1606; &#1602;&#1591;&#1593;&#1607; &#1576;&#1575;&#1588;&#1583;.</p><pre class="highlight code sql substep"><span class="k">select</span><span class="w"> </span><span class="n">pname</span><span class="w">
 </span><span class="k">from</span><span class="w"> </span><span class="n">p</span><span class="w">
 </span><span class="k">where</span><span class="w"> </span><span class="k">not</span><span class="w"> </span><span class="k">exists</span><span class="p">(</span><span class="w">
     </span><span class="k">select</span><span class="w"> </span><span class="o">*</span><span class="w">

diff --git a/cm/lr/css/style.css b/cm/lr/css/style.css
@@ -83,7 +83,7 @@ table.smallerelementwithfullborder,
 table.smallerelementwithfullborder tr, 
 table.smallerelementwithfullborder td, 
 table.smallerelementwithfullborder th 
-{border: 1px solid black;font-size: 90%;/*padding: 0.3rem;*/}
+{border: 1px solid black;padding-left: 0.3rem;padding-right: 0.3rem;}
 table.smallerelementwithfullborder th, table.smallerelementwithfullborder th p
 {font-weight: bold;}
 .grid-2col-class{
@@ -102,7 +102,7 @@ div.t2c{
   grid-template-columns: auto auto;
   justify-items: center;
   align-items: center ;
-  gap: 10px ;
+  gap: 1px ;
 }
 div.t2c > h1, div.t2c > .rtl-h1{
   grid-column: 1 / 3;

diff --git a/db/sq.rst b/db/sq.rst
@@ -2563,7 +2563,7 @@ Exists
 
 .. class:: rtl-h1
 
-      نام قطعههای عرضه شدهٔ متفاوتی را بیابید که فقط عرضه کنندگان درون آن شهرها آنها را عرضه کرده باشند
+      نام قطعههای عرضه شدهٔ متفاوتی را بیابید که فقط عرضه کنندگان درون آن شهرها، آنها را عرضه کرده باشند
 
 .. code:: sql
   :class: substep
@@ -2579,23 +2579,21 @@ Exists
     )
   ;
 
+
 .. code:: sql
     :class: substep
 
-    select distinct pname
-    from p
-    where exists(
+      select pname -- ریحانه زمانیان
+      from p natural join sp
+    except
+      select pname
+      from p
+      where exist(
         select *
-        from sp natural join s
-        where sp.pn = p.pn and
-          p.city = s.city
-      ) and not exists(
-        select *
-        from sp natural join s
-        where sp.pn = p.pn and
-          p.city <> s.city
-      )
-    ;
+        from s natural join sp
+        where sp.pn=p.pn and
+            p.city <> s.city
+      ) ;
 
 .. csv-table::
   :header-rows: 1
@@ -2604,21 +2602,6 @@ Exists
     pname
     Screw
     Cog
-
-.. :
-
-
-    select pname -- ریحانه زمانیان
-    from p natural join sp
-    except all
-    select pname
-    from p
-    where exist(
-    select *
-    from s natural join sp
-    where sp.pn=p.pn and
-    p.city<> s.city
-    ) ;
 
 ----
 
